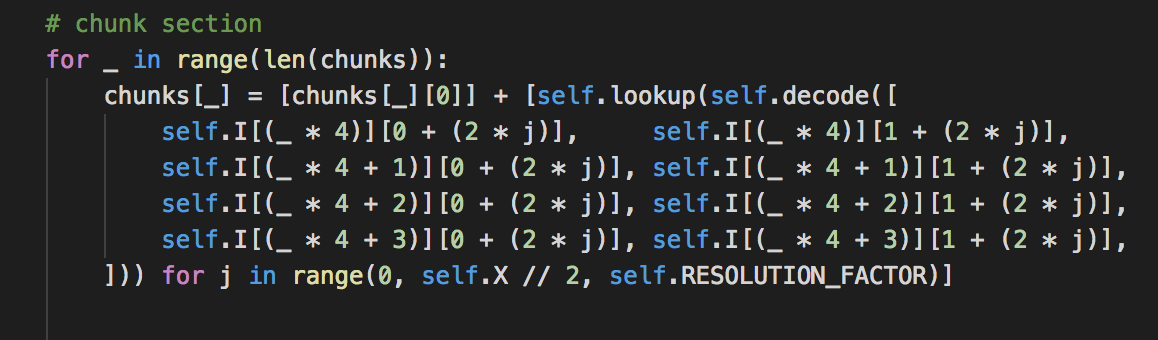
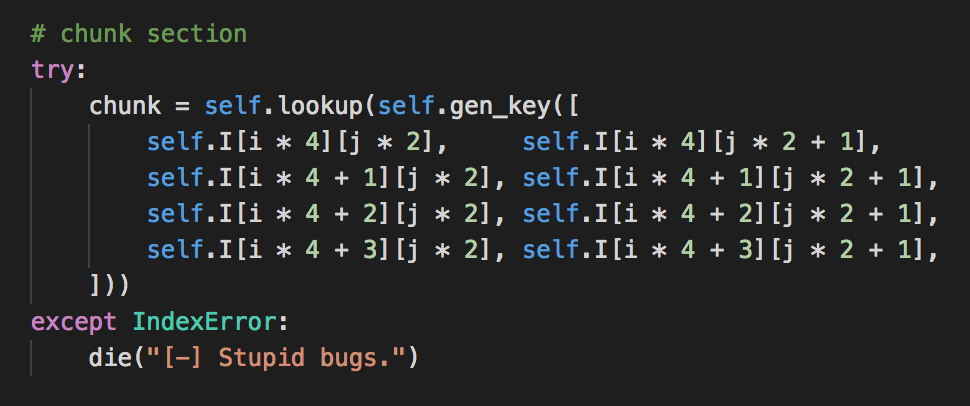
Minor changes

Changed region(s): [[0.0309, 0.1471, 0.9897, 0.6471], [0.0309, 0.6765, 0.9897, 0.9118], [0.0309, 0.0294, 0.2474, 0.1176]]

diff --git a/libs/dots.py b/libs/dots.py
@@ -59,7 +59,7 @@ class DotBlock:
         self.GLOBAL_MERGE_COUNT = 0 # used for merge
 
     # O(1)
-    def decode(self, chunk):
+    def gen_key(self, chunk):
         """
         Generates a key.
 
@@ -129,7 +129,7 @@ class DotBlock:
 
         # iterate through, decoding each chunk
         for chunk in chunks:
-            key = self.decode(chunk)
+            key = self.gen_key(chunk)
             chunk_true = len(key)
 
             self.stats[chunk_true] += 1
@@ -142,12 +142,15 @@ class DotBlock:
     
     # O(n)
     def merge_chunk_row(self, arr):
-        return [self.lookup(self.decode([
-                arr[0][0 + (2 * j)], arr[0][1 + (2 * j)],
-                arr[1][0 + (2 * j)], arr[1][1 + (2 * j)],
-                arr[2][0 + (2 * j)], arr[2][1 + (2 * j)],
-                arr[3][0 + (2 * j)], arr[3][1 + (2 * j)],            
-            ])) for j in range(len(arr[0]) // 2)]
+        try:
+            return [self.lookup(self.gen_key([
+                    arr[0][0 + (2 * j)], arr[0][1 + (2 * j)],
+                    arr[1][0 + (2 * j)], arr[1][1 + (2 * j)],
+                    arr[2][0 + (2 * j)], arr[2][1 + (2 * j)],
+                    arr[3][0 + (2 * j)], arr[3][1 + (2 * j)],            
+                ])) for j in range(len(arr[0]) // 2)]
+        except IndexError:
+            die("[-] Stupid bugs.")
 
     # O(n^2)
     def merge_chunk(self, arr, first_run=True):
@@ -213,12 +216,15 @@ class DotBlock:
                                             ... x x ...
             '''           
             # chunk section
-            chunk = self.lookup(self.decode([
-                self.I[_ * 4][0],     self.I[_ * 4][1],
-                self.I[_ * 4 + 1][0], self.I[_ * 4 + 1][1],
-                self.I[_ * 4 + 2][0], self.I[_ * 4 + 2][1],
-                self.I[_ * 4 + 3][0], self.I[_ * 4 + 3][1],            
-            ]))
+            try:
+                chunk = self.lookup(self.gen_key([
+                    self.I[_ * 4][0],     self.I[_ * 4][1],
+                    self.I[_ * 4 + 1][0], self.I[_ * 4 + 1][1],
+                    self.I[_ * 4 + 2][0], self.I[_ * 4 + 2][1],
+                    self.I[_ * 4 + 3][0], self.I[_ * 4 + 3][1],            
+                ]))
+            except IndexError:
+                die("[-] Stupid bugs.")
 
             chunks.append([chunk])
 
@@ -259,13 +265,15 @@ class DotBlock:
 
         # chunk section
         for _ in range(len(chunks)):
-            chunks[_] = [chunks[_][0]] + [self.lookup(self.decode([
-                self.I[(_ * 4)][0 + (2 * j)],     self.I[(_ * 4)][1 + (2 * j)],
-                self.I[(_ * 4 + 1)][0 + (2 * j)], self.I[(_ * 4 + 1)][1 + (2 * j)],
-                self.I[(_ * 4 + 2)][0 + (2 * j)], self.I[(_ * 4 + 2)][1 + (2 * j)],
-                self.I[(_ * 4 + 3)][0 + (2 * j)], self.I[(_ * 4 + 3)][1 + (2 * j)],            
-            ])) for j in range(0, self.X // 2, self.RESOLUTION_FACTOR)]
-            
+            try:
+                chunks[_] = [chunks[_][0]] + [self.lookup(self.gen_key([
+                    self.I[(_ * 4)][0 + (2 * j)],     self.I[(_ * 4)][1 + (2 * j)],
+                    self.I[(_ * 4 + 1)][0 + (2 * j)], self.I[(_ * 4 + 1)][1 + (2 * j)],
+                    self.I[(_ * 4 + 2)][0 + (2 * j)], self.I[(_ * 4 + 2)][1 + (2 * j)],
+                    self.I[(_ * 4 + 3)][0 + (2 * j)], self.I[(_ * 4 + 3)][1 + (2 * j)],            
+                ])) for j in range(0, self.X // 2, self.RESOLUTION_FACTOR)]
+            except IndexError:
+                die("[-] Stupid bugs.")
 
             # update progress
             if show_progress:
@@ -460,12 +468,15 @@ class DotBlock:
                                 done = True
                         
                         # chunk section
-                        chunk = self.lookup(self.decode([
-                            self.I[i * 4][j * 2],     self.I[i * 4][j * 2 + 1],
-                            self.I[i * 4 + 1][j * 2], self.I[i * 4 + 1][j * 2 + 1],
-                            self.I[i * 4 + 2][j * 2], self.I[i * 4 + 2][j * 2 + 1],
-                            self.I[i * 4 + 3][j * 2], self.I[i * 4 + 3][j * 2 + 1],            
-                        ]))
+                        try:
+                            chunk = self.lookup(self.gen_key([
+                                self.I[i * 4][j * 2],     self.I[i * 4][j * 2 + 1],
+                                self.I[i * 4 + 1][j * 2], self.I[i * 4 + 1][j * 2 + 1],
+                                self.I[i * 4 + 2][j * 2], self.I[i * 4 + 2][j * 2 + 1],
+                                self.I[i * 4 + 3][j * 2], self.I[i * 4 + 3][j * 2 + 1],            
+                            ]))
+                        except IndexError:
+                            die("[-] Stupid bugs.")
 
                         chunks.append(chunk)
 
